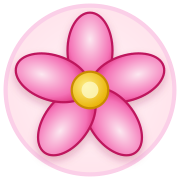
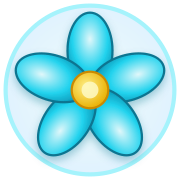
iconics

diff --git a/scripts/generate-favicons.js b/scripts/generate-favicons.js
@@ -5,27 +5,27 @@ const sharp = require('sharp');
 const svgContent = `<svg xmlns="http://www.w3.org/2000/svg" viewBox="0 0 64 64" width="64" height="64">
   <defs>
     <radialGradient id="petal-grad" cx="50%" cy="35%" r="65%">
-      <stop offset="0%" stop-color="#FCE7F0"/>
-      <stop offset="70%" stop-color="#F472B6"/>
-      <stop offset="100%" stop-color="#DB2777"/>
+      <stop offset="0%" stop-color="#E0F7FA"/>
+      <stop offset="60%" stop-color="#22D3EE"/>
+      <stop offset="100%" stop-color="#0891B2"/>
     </radialGradient>
     <radialGradient id="center-grad" cx="40%" cy="40%" r="60%">
       <stop offset="0%" stop-color="#FEF08A"/>
       <stop offset="100%" stop-color="#EAB308"/>
     </radialGradient>
     <radialGradient id="bg-grad" cx="50%" cy="50%" r="50%">
-      <stop offset="0%" stop-color="#FFF5F8"/>
-      <stop offset="100%" stop-color="#FFE4EC"/>
+      <stop offset="0%" stop-color="#F0FDFA"/>
+      <stop offset="100%" stop-color="#E0F2FE"/>
     </radialGradient>
     <filter id="shadow" x="-20%" y="-20%" width="140%" height="140%">
-      <feDropShadow dx="0" dy="1.5" stdDeviation="1.5" flood-color="#9D174D" flood-opacity="0.3"/>
+      <feDropShadow dx="0" dy="1.5" stdDeviation="1.5" flood-color="#0E7490" flood-opacity="0.35"/>
     </filter>
   </defs>
-  <!-- Background circle for contrast on dark and light browser tabs -->
-  <circle cx="32" cy="32" r="30" fill="url(#bg-grad)" stroke="#FBCFE8" stroke-width="1.5"/>
-  <!-- Petals -->
+  <!-- Background circle for high contrast on dark and light browser tabs -->
+  <circle cx="32" cy="32" r="30" fill="url(#bg-grad)" stroke="#A5F3FC" stroke-width="1.5"/>
+  <!-- Cyan Petals -->
   <g transform="translate(32 32)" filter="url(#shadow)">
-    <g fill="url(#petal-grad)" stroke="#BE185D" stroke-width="0.8">
+    <g fill="url(#petal-grad)" stroke="#0E7490" stroke-width="0.8">
       <ellipse cy="-14" rx="8" ry="13.5"/>
       <ellipse cy="-14" rx="8" ry="13.5" transform="rotate(72)"/>
       <ellipse cy="-14" rx="8" ry="13.5" transform="rotate(144)"/>
@@ -34,7 +34,7 @@ const svgContent = `<svg xmlns="http://www.w3.org/2000/svg" viewBox="0 0 64 64" 
     </g>
     <!-- Flower Center -->
     <circle r="6.5" fill="url(#center-grad)" stroke="#CA8A04" stroke-width="0.8"/>
-    <circle r="3" fill="#FEF9C3" opacity="0.8"/>
+    <circle r="3" fill="#FEF9C3" opacity="0.85"/>
   </g>
 </svg>`;
 
@@ -49,7 +49,7 @@ async function run() {
   // 1. Write clean SVG to public and app
   fs.writeFileSync(path.join(publicDir, 'icon.svg'), svgContent, 'utf8');
   fs.writeFileSync(path.join(appDir, 'icon.svg'), svgContent, 'utf8');
-  console.log('Written icon.svg to public and app');
+  console.log('Written cyan icon.svg to public and app');
 
   const svgBuffer = Buffer.from(svgContent);
 
@@ -73,7 +73,6 @@ async function run() {
   // 3. Generate favicon.ico (ICO header containing 32x32 PNG)
   const png32Buffer = await sharp(svgBuffer).resize(32, 32).png().toBuffer();
   
-  // ICO header: 6 bytes ICONDIR + 16 bytes ICONDIRENTRY + image data
   const header = Buffer.alloc(6);
   header.writeUInt16LE(0, 0); // reserved
   header.writeUInt16LE(1, 2); // image type 1 = ICO
@@ -92,7 +91,7 @@ async function run() {
   const icoBuffer = Buffer.concat([header, entry, png32Buffer]);
   fs.writeFileSync(path.join(publicDir, 'favicon.ico'), icoBuffer);
   fs.writeFileSync(path.join(appDir, 'favicon.ico'), icoBuffer);
-  console.log('Generated favicon.ico in public and app');
+  console.log('Generated cyan favicon.ico in public and app');
 
   // 4. Generate site.webmanifest
   const manifest = {
@@ -101,8 +100,8 @@ async function run() {
     description: "Send and view personalized digital flower bouquets",
     start_url: "/",
     display: "standalone",
-    background_color: "#FFF7F8",
-    theme_color: "#E5658C",
+    background_color: "#F0FDFA",
+    theme_color: "#06B6D4",
     icons: [
       {
         src: "/icon-192.png",
@@ -121,4 +120,3 @@ async function run() {
 }
 
 run().catch(console.error);
-

diff --git a/app/layout.tsx b/app/layout.tsx
@@ -2,7 +2,7 @@ import "./globals.css";
 import type { Metadata, Viewport } from "next";
 
 export const viewport: Viewport = {
-  themeColor: "#E5658C",
+  themeColor: "#06B6D4",
 };
 
 export const metadata: Metadata = {
